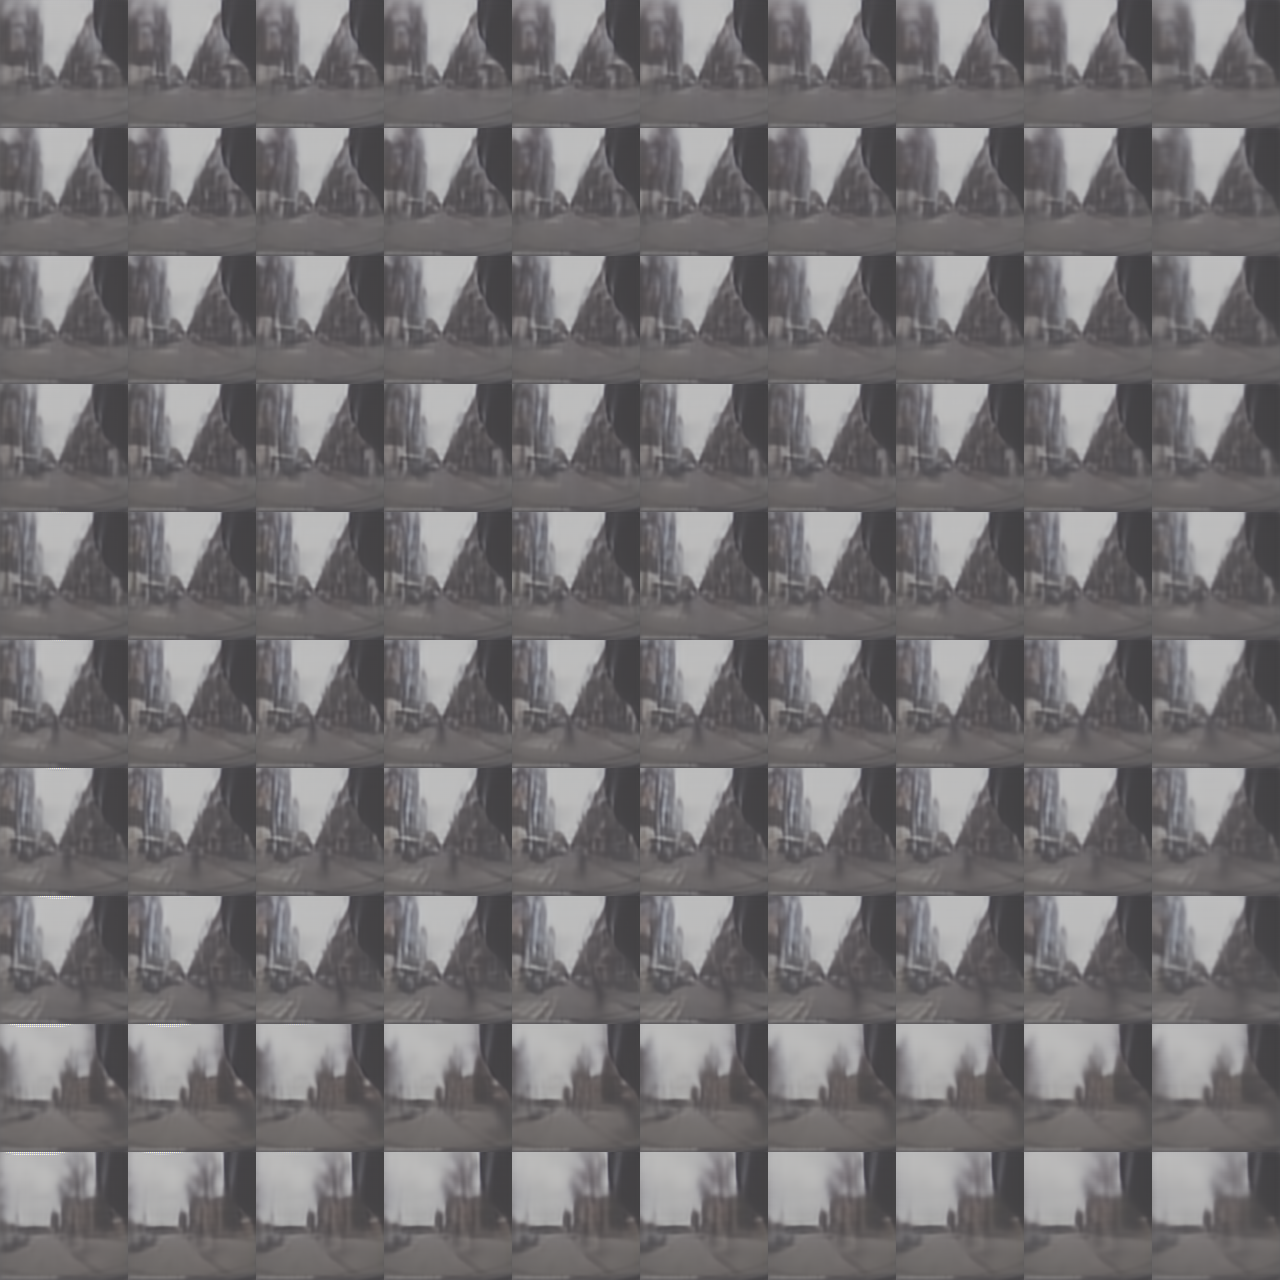
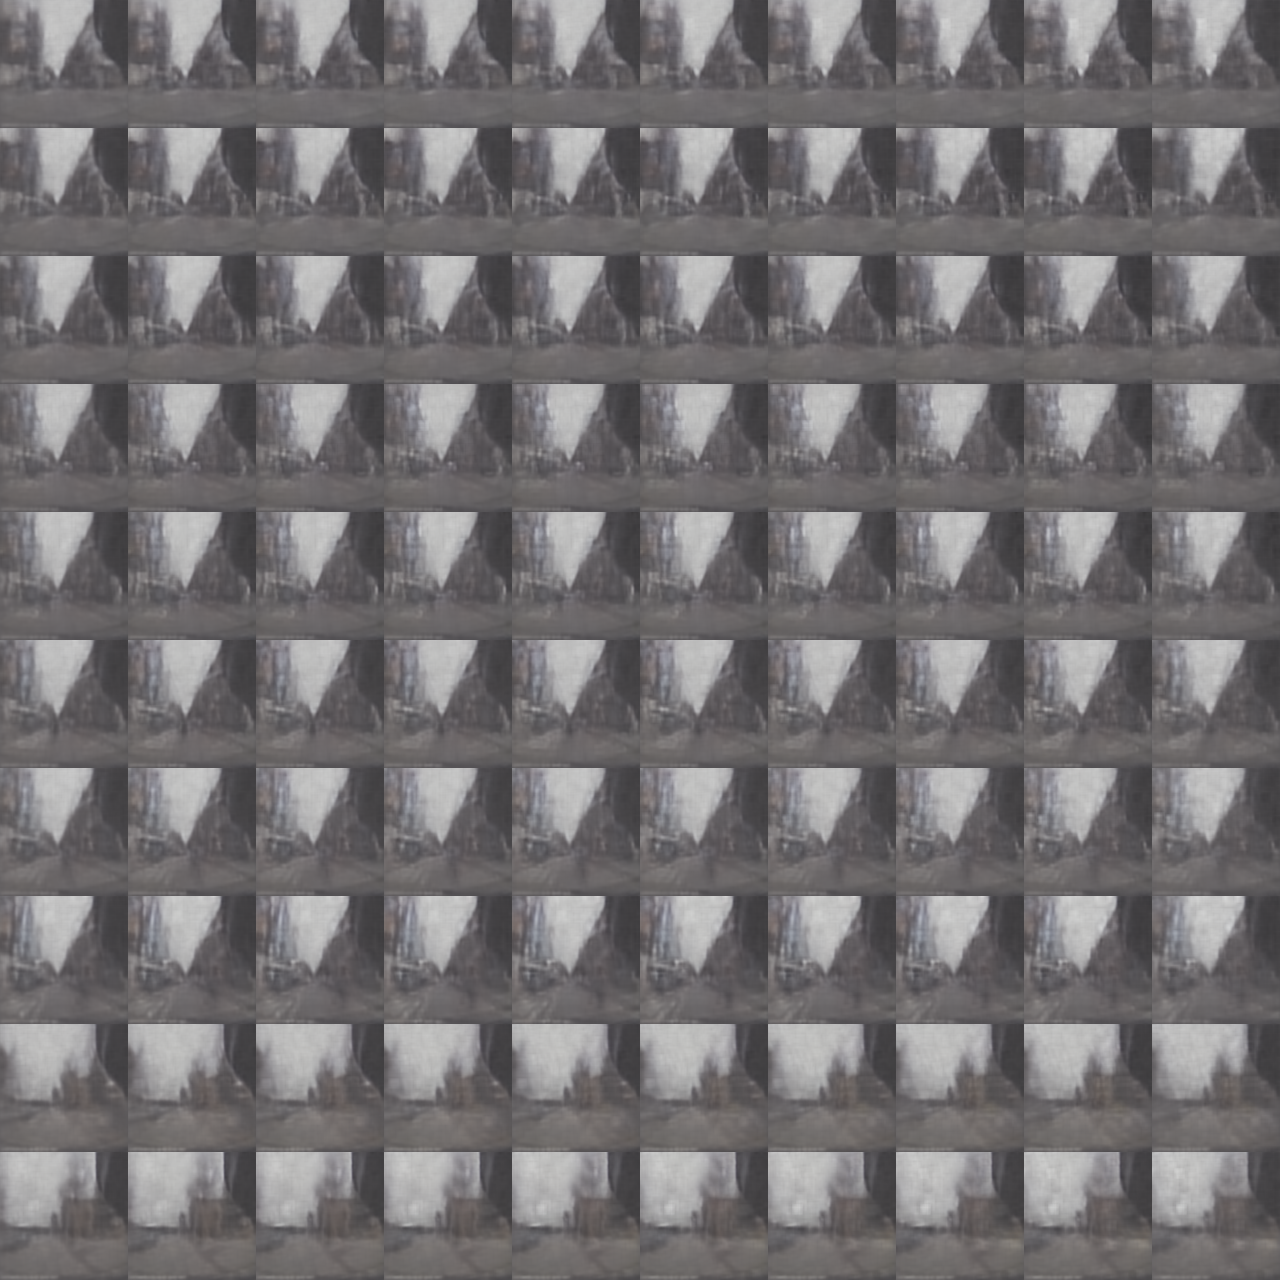
Attention with conv_lstm

diff --git a/code/autoencoder_model/scripts/attention_autoencoder.py b/code/autoencoder_model/scripts/attention_autoencoder.py
@@ -13,16 +13,18 @@ from keras.models import Sequential
 from keras.layers.core import Activation
 from keras.utils.vis_utils import plot_model
 from keras.layers.wrappers import TimeDistributed
+from keras.layers import Layer
 from keras.layers.convolutional import Conv2D
 from keras.layers.convolutional import Conv2DTranspose
 from keras.layers.convolutional import Conv3D
 from keras.layers.convolutional import Conv3DTranspose
 from keras.layers.convolutional_recurrent import ConvLSTM2D
 from keras.layers.merge import multiply
+from keras.layers.merge import concatenate
 from keras.layers.core import Permute
 from keras.layers.core import RepeatVector
+from keras.layers.core import Dense
 from keras.layers.core import Lambda
-from keras.layers import merge
 from keras.layers.core import Reshape
 from keras.layers.core import Flatten
 from keras.layers.recurrent import LSTM
@@ -99,16 +101,6 @@ def decoder_model():
     x = TimeDistributed(LeakyReLU(alpha=0.2))(x)
     out_1 = TimeDistributed(Dropout(0.5))(x)
 
-    # flat_2 = TimeDistributed(Flatten())(out_1)
-    # lstm_2 = LSTM(units=16*16,
-    #               activation='softmax',
-    #               return_sequences=True)(flat_2)
-    # x = Flatten()(lstm_2)
-    # x = RepeatVector(n=64)(x)
-    # x = Permute((2, 1))(x)
-    # x = Reshape(target_shape=(10, 16, 16, 64))(x)
-    # attn_2 = multiply([out_1, x])
-
     # 10x32x32
     conv_2 = Conv3DTranspose(filters=128,
                              kernel_size=(3, 5, 5),
@@ -128,19 +120,15 @@ def decoder_model():
     out_3 = TimeDistributed(Dropout(0.5))(x)
 
     # Learn alpha_1
-    # flat_1 = TimeDistributed(Flatten())(out_3)
     convlstm_1 = ConvLSTM2D(filters=1,
-                            kernel_size=(5, 5),
+                            kernel_size=(3, 3),
                             strides=(1, 1),
                             padding='same',
-                            activation='softmax',
                             return_sequences=True,
                             name='convlstm_1')(out_3)
-    # lstm_1 = LSTM(units=64*64,
-    #               activation='softmax',
-    #               return_sequences=True,
-    #               name='lstm_1')(flat_1)
-    x = Flatten()(convlstm_1)
+    flat_1 = TimeDistributed(Flatten())(convlstm_1)
+    dense_1 = TimeDistributed(Dense(units=64*64, activation='softmax'))(flat_1)
+    x = Flatten()(dense_1)
     x = RepeatVector(n=64)(x)
     x = Permute((2, 1))(x)
     x = Reshape(target_shape=(10, 64, 64, 64))(x)
@@ -159,6 +147,27 @@ def decoder_model():
     model = Model(inputs=inputs ,outputs=predictions)
 
     return model
+
+# # Custom loss layer
+# class CustomLossLayer(Layer):
+#     def __init__(self, **kwargs):
+#         self.is_placeholder = True
+#         super(CustomLossLayer, self).__init__(**kwargs)
+#
+#     def attn_loss(self, x, x_decoded_mean_squash):
+#         x = K.flatten(x)
+#         x_decoded_mean_squash = K.flatten(x_decoded_mean_squash)
+#         xent_loss = img_rows * img_cols * metrics.binary_crossentropy(x, x_decoded_mean_squash)
+#         kl_loss = - 0.5 * K.mean(1 + z_log_var - K.square(z_mean) - K.exp(z_log_var), axis=-1)
+#         return K.mean(xent_loss + kl_loss)
+#
+#     def call(self, inputs):
+#         x = inputs[0]
+#         x_decoded_mean_squash = inputs[1]
+#         loss = self.vae_loss(x, x_decoded_mean_squash)
+#         self.add_loss(loss, inputs=inputs)
+#         # We don't use this output.
+#         return x
 
 
 def set_trainability(model, trainable):
@@ -367,7 +376,7 @@ def train(BATCH_SIZE, ENC_WEIGHTS, DEC_WEIGHTS):
             if epoch == 0 :
                 cv2.imwrite(os.path.join(GEN_IMAGES_DIR, str(epoch) + "_" + str(index) + "_orig.png"), orig_image)
                 cv2.imwrite(os.path.join(GEN_IMAGES_DIR, str(epoch) + "_" + str(index) + "_truth.png"), truth_image)
-            cv2.imwrite(os.path.join(GEN_IMAGES_DIR, str(epoch) + "_" + str(index) + ".png"), pred_image)
+            cv2.imwrite(os.path.join(GEN_IMAGES_DIR, str(epoch) + "_" + str(index) + "_pred.png"), pred_image)
 
         # then after each epoch/iteration
         avg_loss = sum(loss)/len(loss)
@@ -399,8 +408,13 @@ def test(ENC_WEIGHTS, DEC_WEIGHTS):
     run_utilities(encoder, decoder, autoencoder, ENC_WEIGHTS, DEC_WEIGHTS)
     autoencoder.compile(loss='mean_squared_error', optimizer=OPTIM)
 
+    # for i in range(len(decoder.layers)):
+    #     print (decoder.layers[i], str(i))
+    #
+    # exit(0)
+
     def build_intermediate_model(encoder, decoder):
-        intermediate_decoder_1 = Model(inputs=decoder.layers[0].input, outputs=decoder.layers['convlstm_1'].output)
+        intermediate_decoder_1 = Model(inputs=decoder.layers[0].input, outputs=decoder.layers[15].output)
         # intermediate_decoder_2 = Model(inputs=decoder.layers[0].input, outputs=decoder.layers[12].output)
 
         imodel_1 = Sequential()
@@ -466,10 +480,12 @@ def test(ENC_WEIGHTS, DEC_WEIGHTS):
         cv2.imwrite(os.path.join(TEST_RESULTS_DIR, str(index) + "_pred.png"), pred_image)
 
         #------------------------------------------
-        a_pred_1 = np.reshape(a_pred_1, newshape=(10, 10, 16, 16, 1))
-        np.save(os.path.join(TEST_RESULTS_DIR, 'attention_weights.npy'), a_pred_1[0])
+        a_pred_1 = np.reshape(a_pred_1, newshape=(10, 10, 64, 64, 1))
+        # np.save(os.path.join(TEST_RESULTS_DIR, 'attention_weights_' + str(index) +'.npy'), a_pred_1)
         orig_image, truth_image, pred_image = combine_images(X_test, y_test, a_pred_1)
         pred_image = (pred_image*100) * 127.5 + 127.5
+        y_pred = y_pred * 127.5 + 127.5
+        np.save(os.path.join(TEST_RESULTS_DIR, 'attention_weights_' + str(index) + '.npy'), y_pred)
         cv2.imwrite(os.path.join(TEST_RESULTS_DIR, str(index) + "_attn_1.png"), pred_image)
 
         # a_pred_2 = np.reshape(a_pred_2, newshape=(10, 10, 16, 16, 1))

diff --git a/code/autoencoder_model/scripts/plot_heatmap.py b/code/autoencoder_model/scripts/plot_heatmap.py
@@ -4,20 +4,35 @@ from __future__ import print_function
 
 import numpy as np
 import numpy.random
+import matplotlib
+matplotlib.use('Agg')
 import matplotlib.pyplot as plt
+import cv2
 import ast
 from config_aa import *
 
-data = np.load(os.path.join(TEST_DATA_DIR, 'attention_weights.npy'))
-print (data.shape)
+data = np.load(os.path.join(TEST_RESULTS_DIR, 'attention_weights_2.npy'))
+data = data[4]
+# print (data.shape)
+# exit(0)
 # Generate some test data
-frame = data[0]
-x = frame[0]
-y = frame[1]
+for i in range(10):
+    frame = data[i, :, :, 0]
+    frame_1 = data[i]
+    print (frame.shape)
+    x = frame[0]
+    x = np.reshape(x, (128,))
+    y = frame[1]
+    y = np.reshape(y, (128,))
 
-heatmap, xedges, yedges = np.histogram2d(x, y, bins=50)
-extent = [xedges[0], xedges[-1], yedges[0], yedges[-1]]
+    cv2.imwrite('image.png', frame_1)
 
-plt.clf()
-plt.imshow(heatmap.T, extent=extent, origin='lower')
-plt.show()
+    heatmap, xedges, yedges = np.histogram2d(x, y, bins=(128, 128))
+    extent = [xedges[0], xedges[-1], yedges[0], yedges[-1]]
+
+    # plt.clf()
+    plt.imshow(heatmap.T, origin='low')
+    # plt.show()
+
+
+    plt.savefig(os.path.join(TEST_RESULTS_DIR, 'plot_' + str(i) + '.png'))

diff --git a/code/autoencoder_model/scripts/config_aa.py b/code/autoencoder_model/scripts/config_aa.py
@@ -54,6 +54,7 @@ SHUFFLE = True
 VIDEO_LENGTH = 20
 IMG_SIZE = (128, 128, 3)
 VIS_ATTN = True
+ATTN_COEFF = 0.1
 
 # -------------------------------------------------
 # Network configuration:
